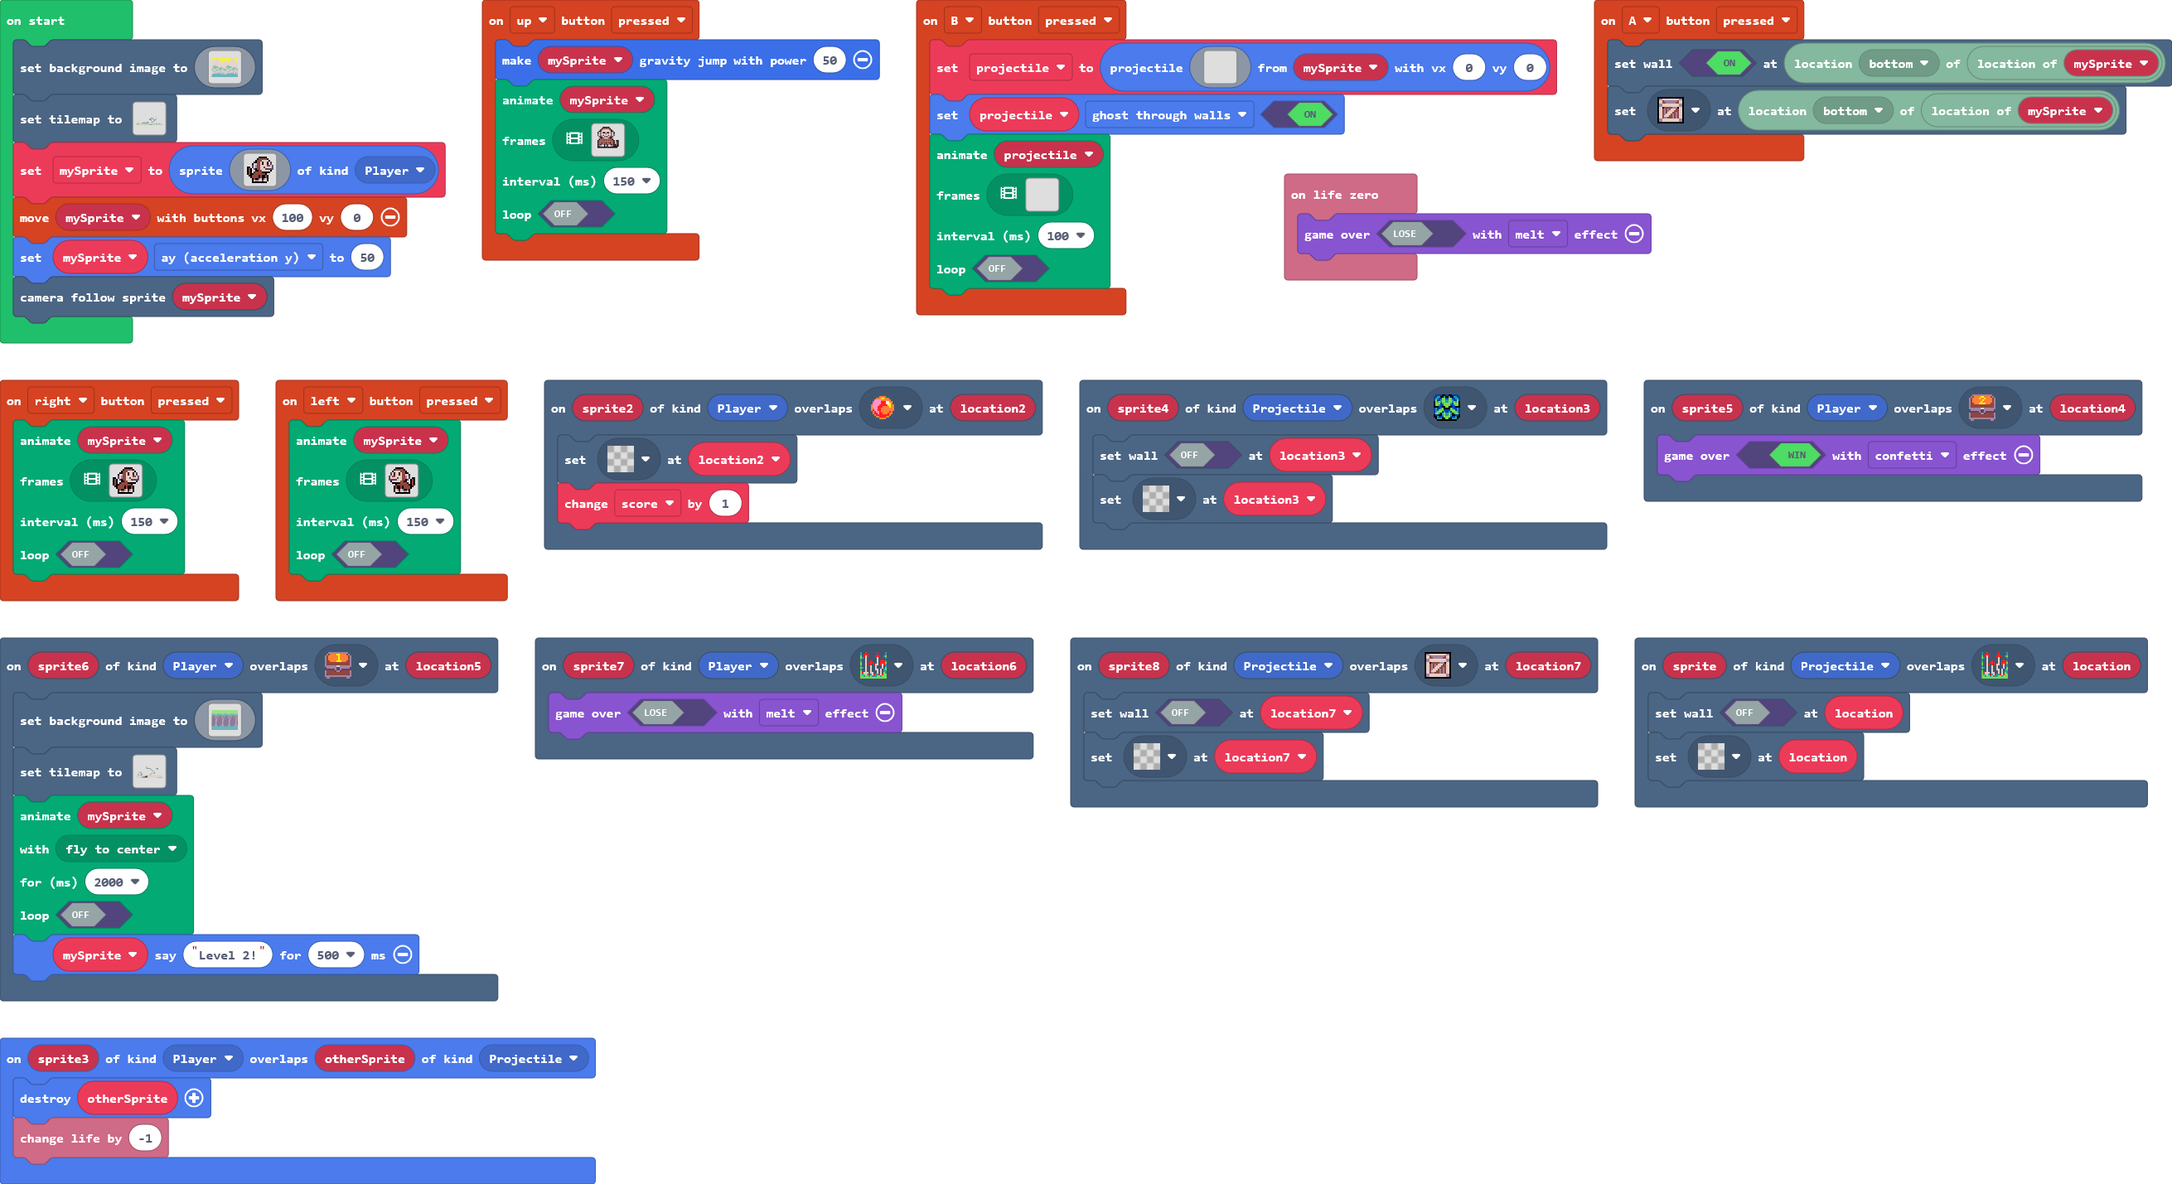
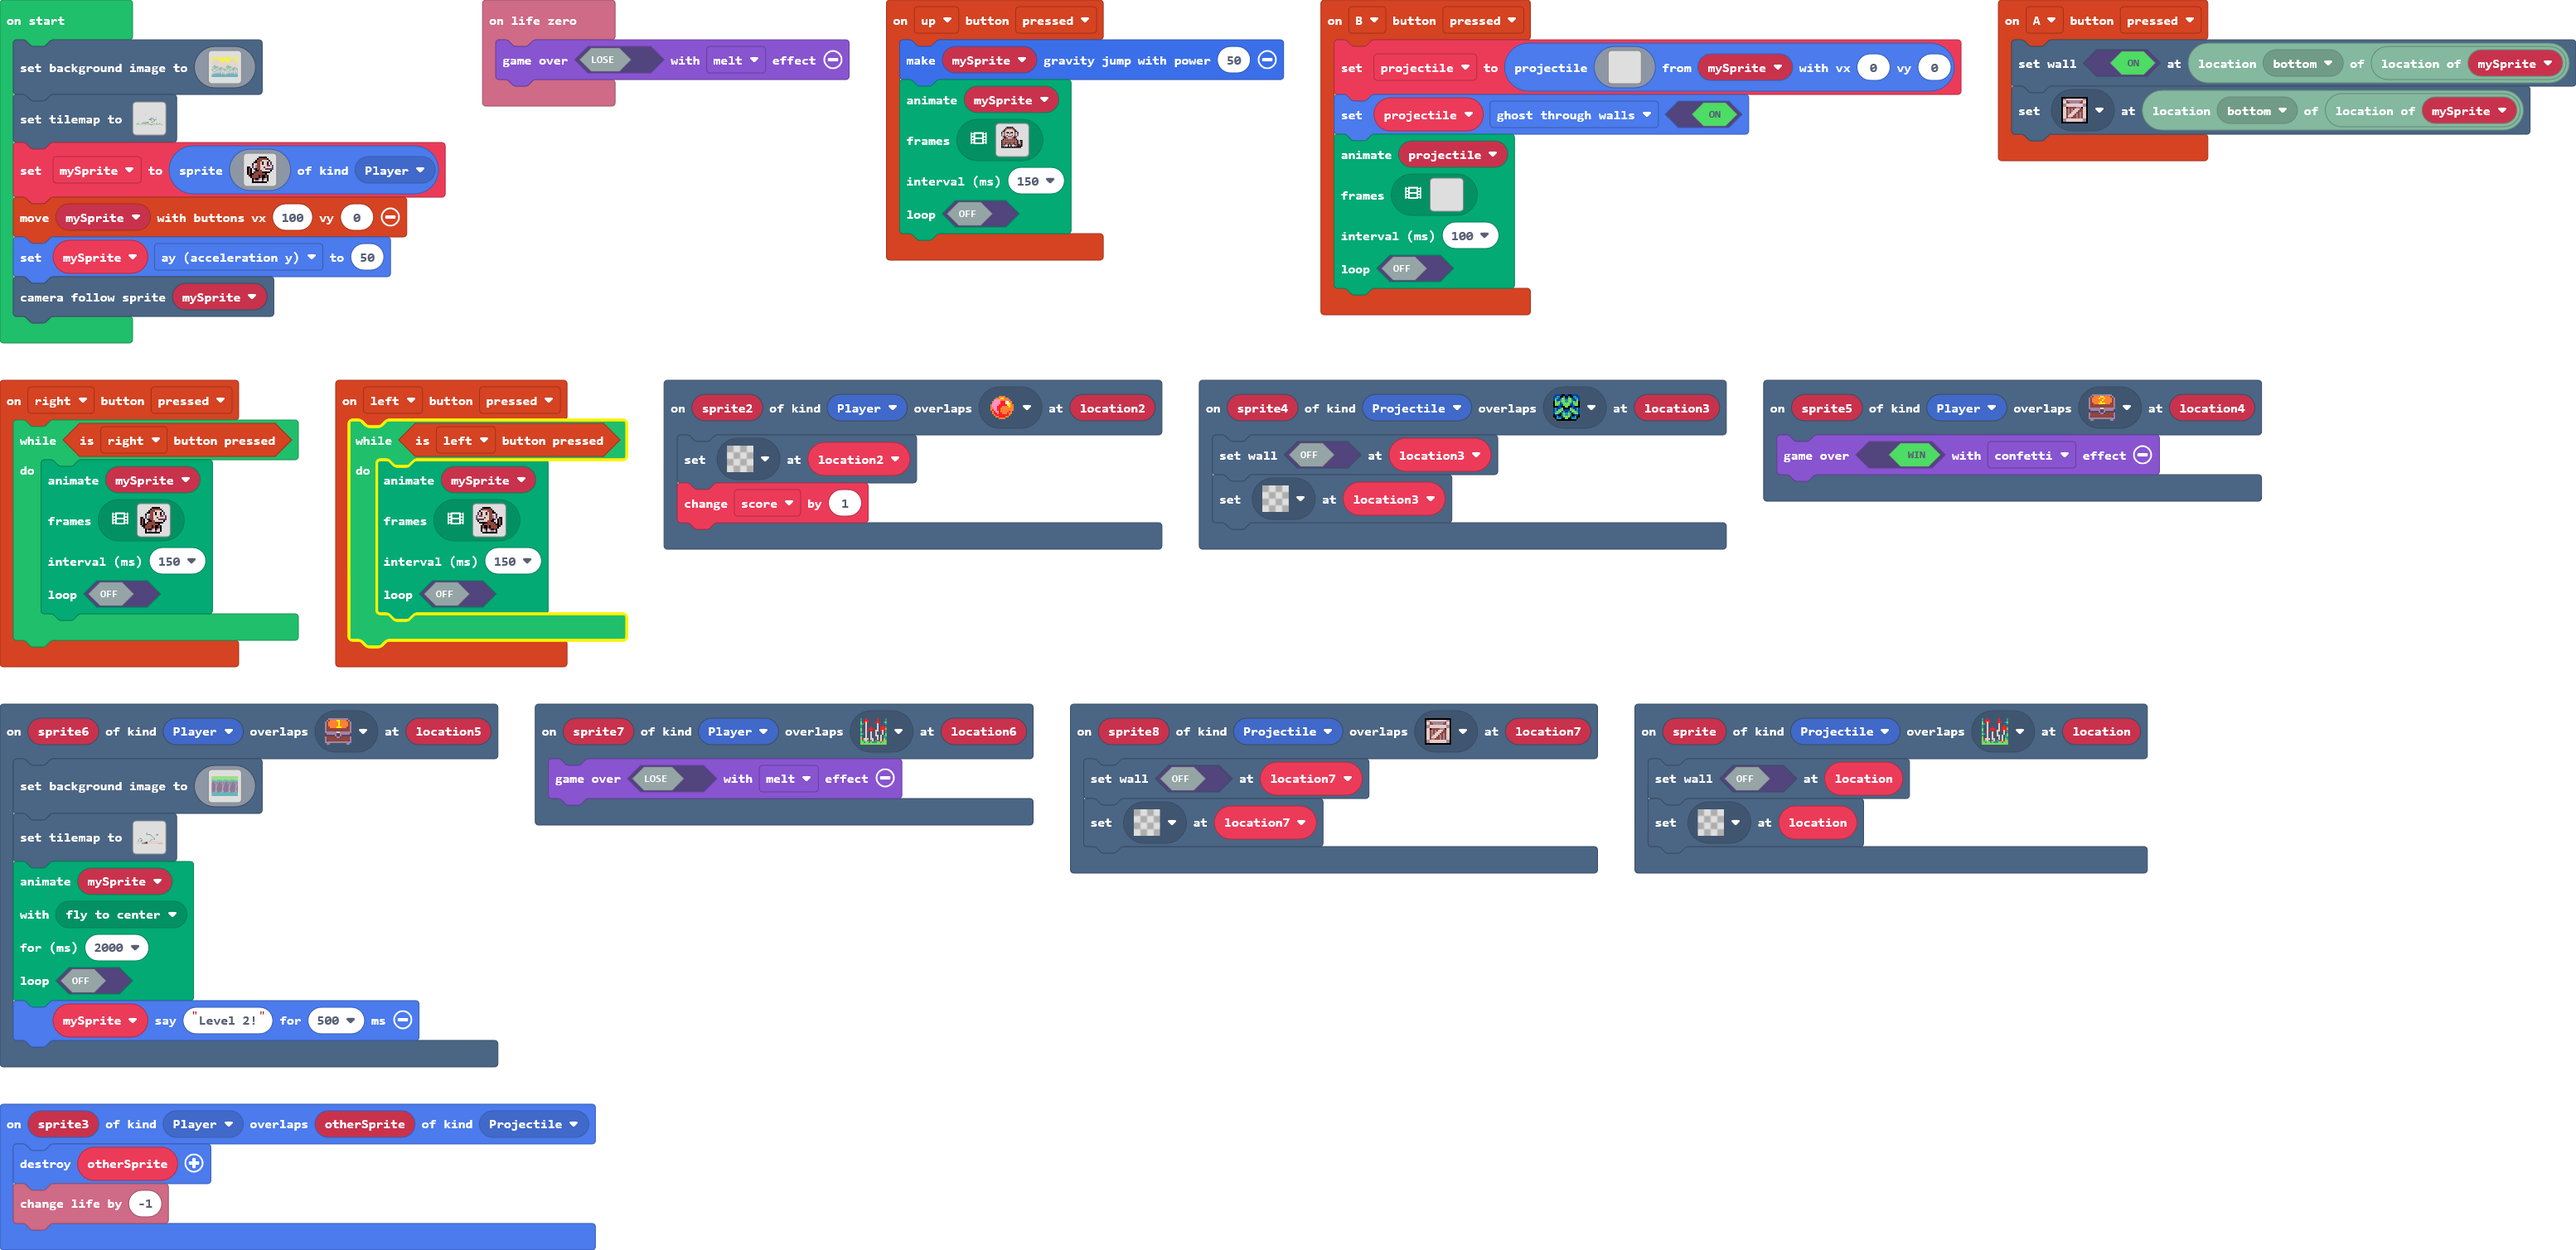
Update main.blocks, main.ts

diff --git a/main.ts b/main.ts
@@ -47,12 +47,14 @@ scene.onOverlapTile(SpriteKind.Projectile, assets.tile`bounce`, function (sprite
     tiles.setTileAt(location7, assets.tile`transparency16`)
 })
 controller.left.onEvent(ControllerButtonEvent.Pressed, function () {
-    animation.runImageAnimation(
-    mySprite,
-    assets.animation`walk left`,
-    150,
-    false
-    )
+    while (controller.left.isPressed()) {
+        animation.runImageAnimation(
+        mySprite,
+        assets.animation`walk left`,
+        150,
+        false
+        )
+    }
 })
 scene.onOverlapTile(SpriteKind.Player, assets.tile`orange bauble`, function (sprite2, location2) {
     tiles.setTileAt(location2, assets.tile`transparency16`)
@@ -66,12 +68,14 @@ sprites.onOverlap(SpriteKind.Player, SpriteKind.Projectile, function (sprite3, o
     info.changeLifeBy(-1)
 })
 controller.right.onEvent(ControllerButtonEvent.Pressed, function () {
-    animation.runImageAnimation(
-    mySprite,
-    assets.animation`walk right`,
-    150,
-    false
-    )
+    while (controller.right.isPressed()) {
+        animation.runImageAnimation(
+        mySprite,
+        assets.animation`walk right`,
+        150,
+        false
+        )
+    }
 })
 scene.onOverlapTile(SpriteKind.Player, assets.tile`chest1`, function (sprite6, location5) {
     scene.setBackgroundImage(assets.image`background2`)
